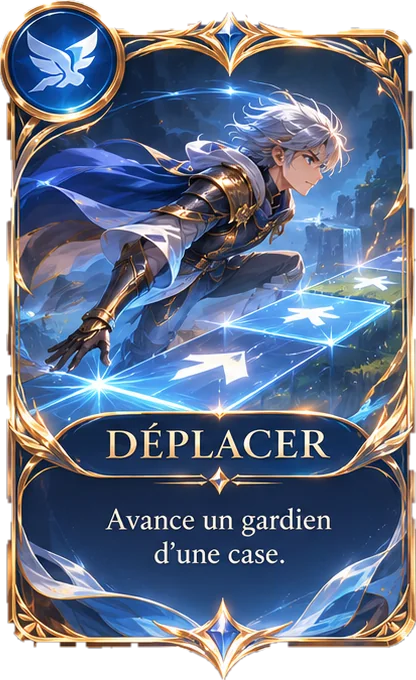
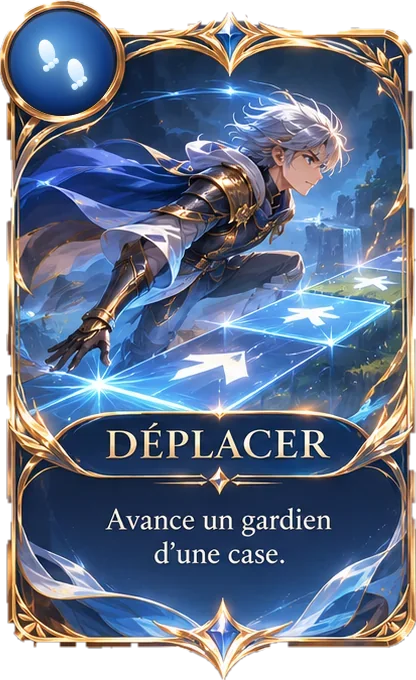
Cartes : bonnes icônes Déplacer/Pousser et essai ?cartes=kaykit
Le médaillon de Déplacer montre les empreintes du jeu et celui de Pousser
la flèche + étoile, au lieu de l'aile et des doubles flèches de la planche.
?cartes=kaykit remplace l'illustration par les rendus KayKit de la
maquette A, dans les mêmes cadres.

Claude-Session: https://claude.ai/code/session_01LgehXeJqSdWKMhjy8PbvUL

Changed region(s): [[0.0, 0.0, 0.2812, 0.1853]]

diff --git a/css/card-art-v12.css b/css/card-art-v12.css
@@ -24,6 +24,14 @@ body .card-cycle-v7-card.card-cycle-v10-card {
 body .card-cycle-v7-card.card-cycle-v10-card.type-push { --carte-face: url("../assets/cartes/pousser.webp"); }
 body .card-cycle-v7-card.card-cycle-v10-card.type-magic { --carte-face: url("../assets/cartes/magie.webp"); }
 
+/* Essai `?cartes=kaykit` : mêmes cadres, illustrations KayKit de la maquette A. */
+html[data-cartes="kaykit"] body .card-cycle-v7-card.card-cycle-v10-card { --carte-face: url("../assets/cartes/kaykit/deplacer.webp"); }
+html[data-cartes="kaykit"] body .card-cycle-v7-card.card-cycle-v10-card.type-push { --carte-face: url("../assets/cartes/kaykit/pousser.webp"); }
+html[data-cartes="kaykit"] body .card-cycle-v7-card.card-cycle-v10-card.type-magic { --carte-face: url("../assets/cartes/kaykit/magie.webp"); }
+html[data-cartes="kaykit"] .cc-pile i { background-image: url("../assets/cartes/kaykit/deplacer.webp"); }
+html[data-cartes="kaykit"] .cc-pile.type-push i { background-image: url("../assets/cartes/kaykit/pousser.webp"); }
+html[data-cartes="kaykit"] .cc-pile.type-magic i { background-image: url("../assets/cartes/kaykit/magie.webp"); }
+
 body .card-cycle-v7-card.card-cycle-v10-card::before,
 body .card-cycle-v7-card.card-cycle-v10-card::after {
   content: none !important;

diff --git a/js/card-cycle-animation-v10.js b/js/card-cycle-animation-v10.js
@@ -17,6 +17,14 @@
   if (window.__ILYOS_CARD_CYCLE_V10__) return;
   window.__ILYOS_CARD_CYCLE_V10__ = true;
 
+  /* Essai (2026-11-02) : `?cartes=kaykit` montre les cartes avec les
+     illustrations KayKit de la maquette A (css/card-art-v12.css). */
+  try {
+    if (new URLSearchParams(location.search).get('cartes') === 'kaykit') {
+      document.documentElement.dataset.cartes = 'kaykit';
+    }
+  } catch (_) {}
+
   const ICONS = {
     MOVE: `<svg viewBox="0 0 48 48" aria-hidden="true"><g fill="currentColor"><ellipse cx="17" cy="14" rx="5" ry="8"/><circle cx="13" cy="24" r="2"/><circle cx="17" cy="23" r="2"/><ellipse cx="31" cy="32" rx="5" ry="8"/><circle cx="27" cy="41" r="2"/><circle cx="31" cy="40" r="2"/></g></svg>`,
     PUSH: `<svg viewBox="0 0 48 48" aria-hidden="true"><path d="M7 24h24M23 14l10 10-10 10" fill="none" stroke="currentColor" stroke-width="4" stroke-linecap="round" stroke-linejoin="round"/><path d="m39 10 2.2 7L48 19l-6.8 2.2L39 28l-2.2-6.8L30 19l6.8-2.2L39 10Z" fill="currentColor"/></svg>`,

diff --git a/js/bootstrap-cache.js b/js/bootstrap-cache.js
@@ -52,7 +52,7 @@ function ilyosLoadScriptOnce(marker, src) {
 }
 
 (function loadIlyosHudPolishTargetedV1() {
-  const VERSION = '20261102-cartes-illustrees';
+  const VERSION = '20261102-cartes-icones';
 
   function install() {
     ilyosLoadStyleOnce('deck-discard-base-v10', `./css/deck-discard-hud-v1.css?v=${VERSION}`);

diff --git a/docs/ASSETS.md b/docs/ASSETS.md
@@ -37,7 +37,8 @@ Ils ne constituent pas une vérification fichier par fichier de toutes les varia
 | `assets/sky/source/*`, atlas et manifeste | Pipeline local `scripts/build-horizon-islands.js` ; historique de génération à compléter |
 | `assets/collection/heros-*.webp`, `portrait-*.webp` | Portraits rendus le 2026-10-01 depuis les modèles locaux des packs Adventurers et Skeletons (CC0) avec `three.min.js` ; accessoires réduits à une arme et un bouclier par héros. Servent aux cartes de la Collection du menu et au HUD (`portrait-*`) quand le joueur change de gardien |
 | `assets/collection/iles-herbe.webp`, `iles-archipel.webp` | Captures du plateau du jeu (2026-10-09), recadrées en 480×300 : îles d'herbe KayKit (CC0) et Archipel de pierre (textures Poly Haven CC0 ci-dessous). Vignettes de la catégorie « Îles » de la Collection et de la piste de saison |
-| `assets/cartes/deplacer.webp`, `pousser.webp`, `magie.webp`, `dos.webp` | Planche de cartes fournie par Taekun (propriétaire du jeu) le 2026-11-02 dans le fil de projet « pioche » ; original 1774×887 conservé hors dépôt (`/mnt/project-files/cartes/reference-taekun.png`). Chaque carte détourée (masque du cadre or, fond transparent) et enregistrée en WebP qualité 84, taille d'origine (~416×680). Faces et dos des cartes d'action (`css/card-art-v12.css`, piles du dock, panneaux pioche/défausse). Texte de l'effet dessiné dans l'image : le changer impose une nouvelle image |
+| `assets/cartes/deplacer.webp`, `pousser.webp`, `magie.webp`, `dos.webp` | Planche de cartes fournie par Taekun (propriétaire du jeu) le 2026-11-02 dans le fil de projet « pioche » ; original 1774×887 conservé hors dépôt (`/mnt/project-files/cartes/reference-taekun.png`). Chaque carte détourée (masque du cadre or, fond transparent) et enregistrée en WebP qualité 84, taille d'origine (~416×680). Faces et dos des cartes d'action (`css/card-art-v12.css`, piles du dock, panneaux pioche/défausse). Texte de l'effet dessiné dans l'image : le changer impose une nouvelle image. Icônes du médaillon de Déplacer et Pousser repeintes le 2026-11-02 avec celles du jeu (empreintes, flèche + étoile) |
+| `assets/cartes/kaykit/*.webp` | Essai `?cartes=kaykit` (2026-11-02) : cadres des cartes de Taekun dont la fenêtre d'illustration est évidée, avec les rendus KayKit de la maquette A (modèles du dépôt, three r128) derrière. Sources du montage : `/mnt/project-files/cartes/sources/` (`trou.py`, `cartes.html`, `rendre.js`) |
 | `assets/duels/<setup>-<taille>.webp`, `vide-<taille>.webp` | Captures du plateau du jeu (2026-10-26, KayKit CC0), HUD masqué, recadrées 1410×720 à partir de (95, 85) sur une fenêtre 1600×900 puis réduites à 1128×576 : une photo par setup du Duel symétrique et par taille (11, 13), plus le plateau vide. Photos du menu du duel et du terrain de départ du Personnalisé (`js/game/menu-duels.js`). À reprendre quand un setup change : le nom ne change pas, donc incrémenter `ILYOS_ASSET_CACHE` dans `sw.js` |
 | `assets/pierre/dalle-*.jpg` | Poly Haven « Marble Rock 01 » (Amal Kumar), https://polyhaven.com/a/marble_rock_01, CC0, téléchargé le 2026-10-06 : couleur et normale 1k réduites à 512 px. Grain des dalles des îles (« Archipel de pierre ») ; la teinte et la mousse sont ajoutées dans `kaykit3d.js` |
 | `assets/pierre/falaise-*.jpg` | Poly Haven « Marble Cliff 04 » (Amal Kumar), https://polyhaven.com/a/marble_cliff_04, CC0, téléchargé le 2026-10-06 : normale 1k réduite à 512 px ; couleur passée en niveaux de gris (+15 % de contraste) pour être teintée en jeu. Flancs des dalles et roche des coques d'îles |
